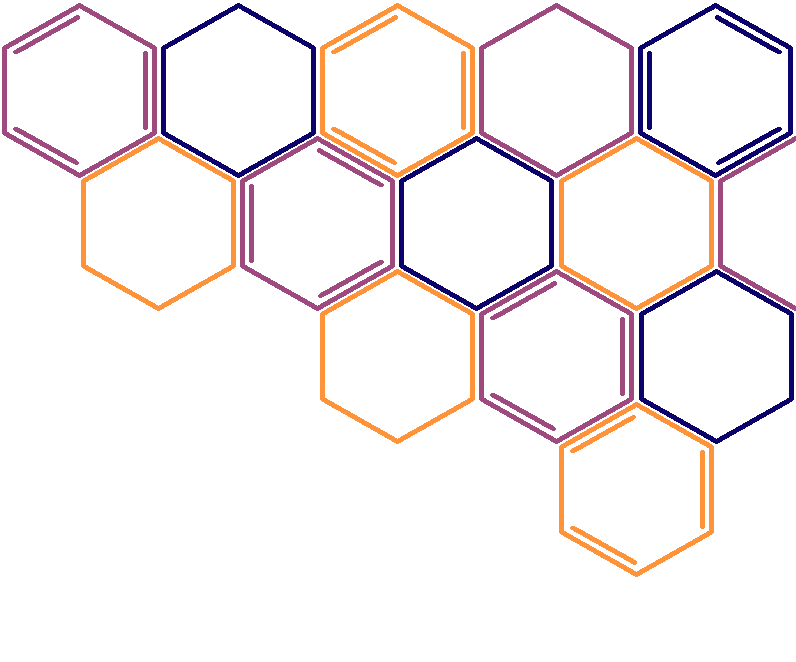
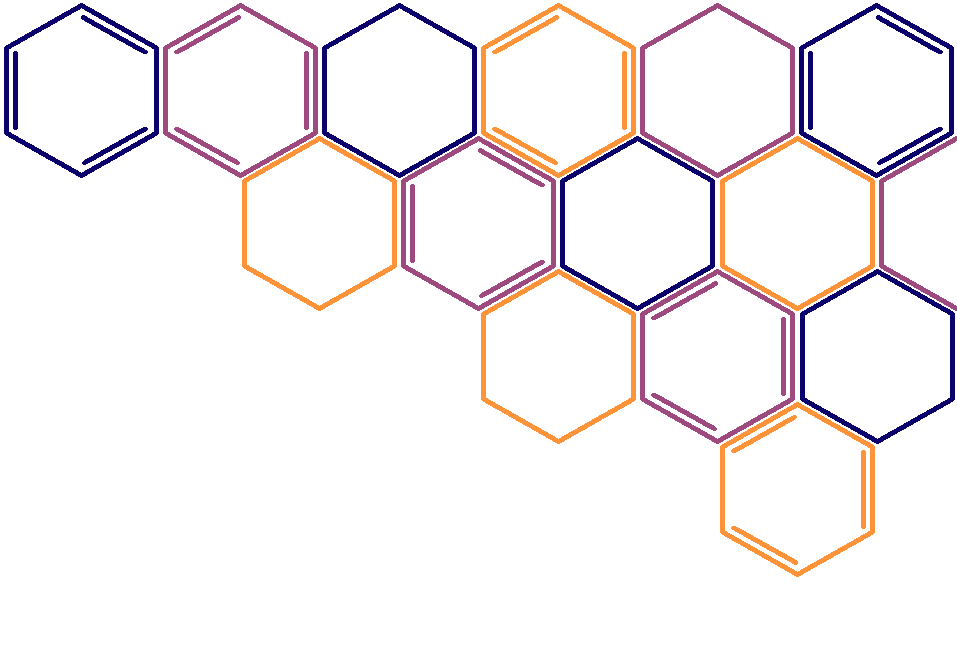
send-chat-message.php refactored, secured userId handeling in submitting incidents, MORE HEXAGONS!

Changed region(s): [[0.0, 0.0, 1.0, 0.8761], [0.1809, 0.4532, 0.2111, 0.4834]]

diff --git a/public_html/irp/css/login.css b/public_html/irp/css/login.css
@@ -116,7 +116,7 @@ aside {
     background-image: url('../images/login/hexagon_pattern.png');
     background-repeat: no-repeat;
     background-position: top right;
-    background-size: 20vw auto;
+    background-size: 24vw auto;
 }
 
 #greeting-div {

diff --git a/app/db.php b/app/db.php
@@ -1,5 +1,4 @@
 <?php
-
     /*===========================================================
                         FREDRIK'S FUNCTIONS
                                 |
@@ -483,6 +482,8 @@
                                 V
     =============================================================*/
 
+    /* new-case.php */
+
     function getIncidentTypes() {
         $mysqli = getDataBase();
         $result = $mysqli->query("SELECT * FROM incident_type")->fetch_all(MYSQLI_ASSOC);
@@ -499,7 +500,65 @@
         return $result;
     }
 
-    function submitIncident($occurance, $description, $incident_type_id) {
+    /* cases.php */
+
+    /* send-chat-message.php */
+
+    function sendMessage($incidentId, $message, $userId) {
+        $mysqli = getDataBase();
+
+        $incidentId = (int)$incidentId;
+        $userId = (int)$userId;
+
+        $mysqli->begin_transaction();
+        try {
+            // 1. hämta den nuvarande statusen på ärendet så det inte ändras
+            $query = $mysqli->query(
+                "SELECT status FROM incident_update 
+                 WHERE incident_id = $incidentId 
+                 ORDER BY incident_update_id DESC 
+                 LIMIT 1;"
+            );
+            $status = $query->fetch_assoc()['status'];
+
+            // Fredrik säger: vi kollar att statusen är giltig så behöver vi inte använda ett prepared statement
+            $allowedStatuses = ['pending', 'in progress', 'resolved'];
+            if (!in_array($status, $allowedStatuses)) {
+                throw new Exception("Unexpected status", 1);
+            }
+
+            // 2. skapar en ny incident_update
+            $mysqli->query(
+                "INSERT INTO incident_update (incident_id, status, user_id) 
+                 VALUES ($incidentId, '$status', $userId);"
+            );
+
+            $incidentUpdateId = (int)($mysqli->insert_id);
+
+            // 3. spara själva meddelandet i comment i databasen
+            $stmt = $mysqli->prepare(
+                "INSERT INTO comment (incident_update_id, comment_text)
+                VALUES ($incidentUpdateId, ?);"
+            );
+            $stmt->bind_param('s', $message);
+            $stmt->execute();
+            $stmt->close();
+
+            $mysqli->commit();
+            return TRUE;
+        } catch (Exception $e) {
+            $mysqli->rollback();
+            return FALSE;
+        } finally {
+            $mysqli->close();
+        }
+    }
+
+    /* submit-incident.php */
+
+    function submitIncident($occurance, $description, $incident_type_id, $incidentSeverity, $affectedAssetIds = []) {
+        $mysqli = getDataBase();
+
 
     }
 ?>

diff --git a/public_html/irp/send-chat-message.php b/public_html/irp/send-chat-message.php
@@ -1,43 +1,25 @@
 <?php
-session_start();
-require_once "../../app/db.php";
-
-if ($_SERVER["REQUEST_METHOD"] == "POST") {
-    $mysqli = getDataBase();
-
-    $case_id = intval($_POST['case_id']);
-    $chat_message = trim($_POST['chat_message']);
-    $user_id = $_SESSION['user_id'];
-
-    if ($case_id > 0 && !empty($chat_message)) {
-        
-        // 1. hämta den nuvarande statusen på ärendet så det inte ändras
-        $status_query = "SELECT status FROM incident_update WHERE incident_id = ? ORDER BY incident_update_id DESC LIMIT 1";
-        $stmt_s = $mysqli->prepare($status_query);
-        $stmt_s->bind_param("i", $case_id);
-        $stmt_s->execute();
-        $current_status = $stmt_s->get_result()->fetch_assoc()['status'] ?? 'pending';
-        $stmt_s->close();
-
-        // 2. skapar en ny incident_update 
-        $stmt = $mysqli->prepare("INSERT INTO incident_update (incident_id, status, user_id) VALUES (?, ?, ?)");
-        $stmt->bind_param("isi", $case_id, $current_status, $user_id);
-
-        if ($stmt->execute()) {
-            $new_update_id = $mysqli->insert_id;
-
-            // 3. spara själva meddelandet i comment i databasen
-            $stmt_comment = $mysqli->prepare("INSERT INTO comment (incident_update_id, comment_text) VALUES (?, ?)");
-            $stmt_comment->bind_param("is", $new_update_id, $chat_message);
-            $stmt_comment->execute();
-            $stmt_comment->close();
-        }
-        $stmt->close();
+    session_start();
+    require_once "../../app/db.php";
+    $userId = $_SESSION['user_id'];
+    if(!isset($userId)) {
+        header('Location: unauthorized.php');
+        exit();
     }
+    updateLastSeen($userId);
 
-    $mysqli->close();
+    if ($_SERVER["REQUEST_METHOD"] == "POST") {
+        $mysqli = getDataBase();
 
-    // skickar sen tillbaka användaren till ärendet direkt
-    header("Location: cases.php?view=" . $case_id);
-    exit();
-}
+        $caseId = intval($_POST['case_id']) ?? NULL;
+        $message = trim($_POST['chat_message']) ?? NULL;
+
+        if ($caseId != NULL && $message != NULL && isset($userId)) {
+            // Skickar tillbaka användaren till ärendet direkt
+            if (sendMessage($caseId, $message, $userId)) {
+                header("Location: cases.php?view=" . $caseId);
+                exit(); 
+            }
+        }
+    }
+?>

diff --git a/public_html/irp/submit-incident.php b/public_html/irp/submit-incident.php
@@ -10,11 +10,14 @@ if ($_SERVER["REQUEST_METHOD"] == "POST") {
     $description = $_POST['description'];
     $incident_type_id = $_POST['threats'];
     $incident_severity = $_POST['urgency'];
+    $selected_assets = $_POST['asset_id'] ?? []; 
     
     // kollar både fältet och sessionen
-    $user_id = $_POST['id_nr'] ?? ($_SESSION['user_id'] ?? 1);
-
-    $selected_assets = $_POST['asset_id'] ?? []; 
+    $userId = $_SESSION['user_id'] ?? NULL; // Fredrik säger: stor säkerhetsrisk att lita på POST för user_id. vem som helst kan skicka en post med vilket id som helst.
+    if (!$userId) {
+        header('Location: unauthorized.php');
+        exit();
+    }
 
     // 2. KONTROLLERA FILER (Samma logik som förut)
     if (isset($_FILES['attachment']) && $_FILES['attachment']['error'] === 0) {
@@ -42,7 +45,7 @@ if ($_SERVER["REQUEST_METHOD"] == "POST") {
 
         // 4. SKAPA STATUSUPPDATERING (Viktigt för cases.php!)
         $stmt_status = $mysqli->prepare("INSERT INTO incident_update (incident_id, status, user_id) VALUES (?, 'pending', ?)");
-        $stmt_status->bind_param("ii", $new_incident_id, $user_id);
+        $stmt_status->bind_param("ii", $new_incident_id, $userId);
         $stmt_status->execute();
         
         $new_update_id = $mysqli->insert_id; 

diff --git a/public_html/irp/new-case.php b/public_html/irp/new-case.php
@@ -23,7 +23,6 @@
                     <input type="datetime-local" name="incident_time" required>
                 </div>
 
-                <input type="hidden" name="id_nr" value="<?= $_SESSION['user_id'] ?>">
                 <input type="hidden" name="reporter_email" value="<?= $_SESSION['user_email'] ?>">
 
                 <div>
@@ -42,7 +41,7 @@
                         <select name="threats" required>
                             <option value="">-Select-</option>
                             <?php foreach($incidentTypes as $incidentType):?>
-                                <option value="<?= $incidentType['incident_type_id'] ?>"> <?= $incidentType['incident_type_name'] ?> </option>;
+                                <option value="<?= $incidentType['incident_type_id'] ?>"><?= $incidentType['incident_type_name'] ?></option>;
                             <?php endforeach;?>
                         </select>
                     </div>

diff --git a/public_html/irp/cases.php b/public_html/irp/cases.php
@@ -1,7 +1,11 @@
 <?php
-session_start(); 
-$activePage="cases";  
-require_once "../../app/db.php"; 
+session_start();
+if (!isset($_SESSION['user_id'])) {
+    header('Location: unauthorized.php');
+}
+require_once '../../app/db.php';
+updateLastSeen($_SESSION['user_id']);
+$activePage="cases";
 
 $mysqli = getDataBase();
 
@@ -120,7 +124,8 @@ if ($selectedCase) {
     while ($f = $res_f->fetch_assoc()) {
         $attachments[] = $f;
     }
-    // HÄR HÄMTAS KOMMENTARERNA (Chatten)
+    // HÄR HÄMTAS KOMMENTARERNA (Chatten)  
+    // Fredrik säger: Vi hade kunnat joina in user här och på så sätt få användarnamnet så det kan displayas i chatten istället för user #X
     $query_comments = "SELECT c.comment_text, u.status, u.user_id, DATE_FORMAT(u.incident_update_id, '%H:%i') as time 
                        FROM comment c
                        JOIN incident_update u ON c.incident_update_id = u.incident_update_id
